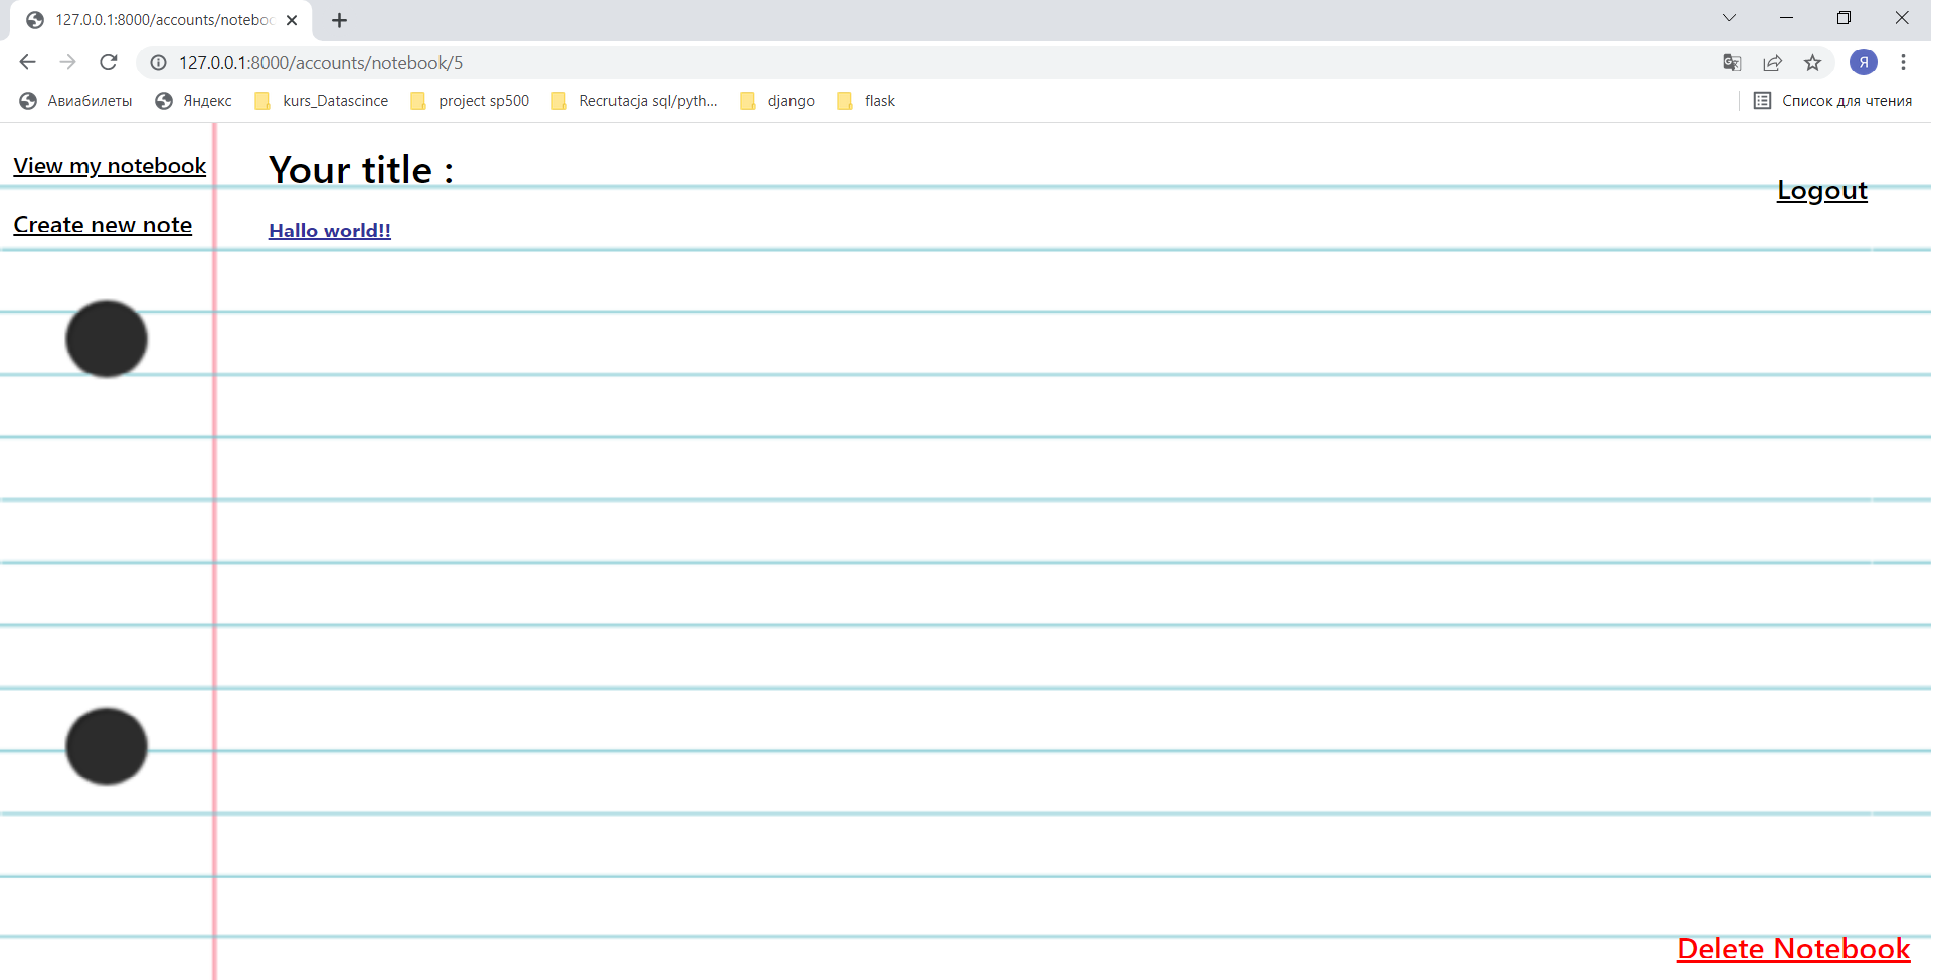
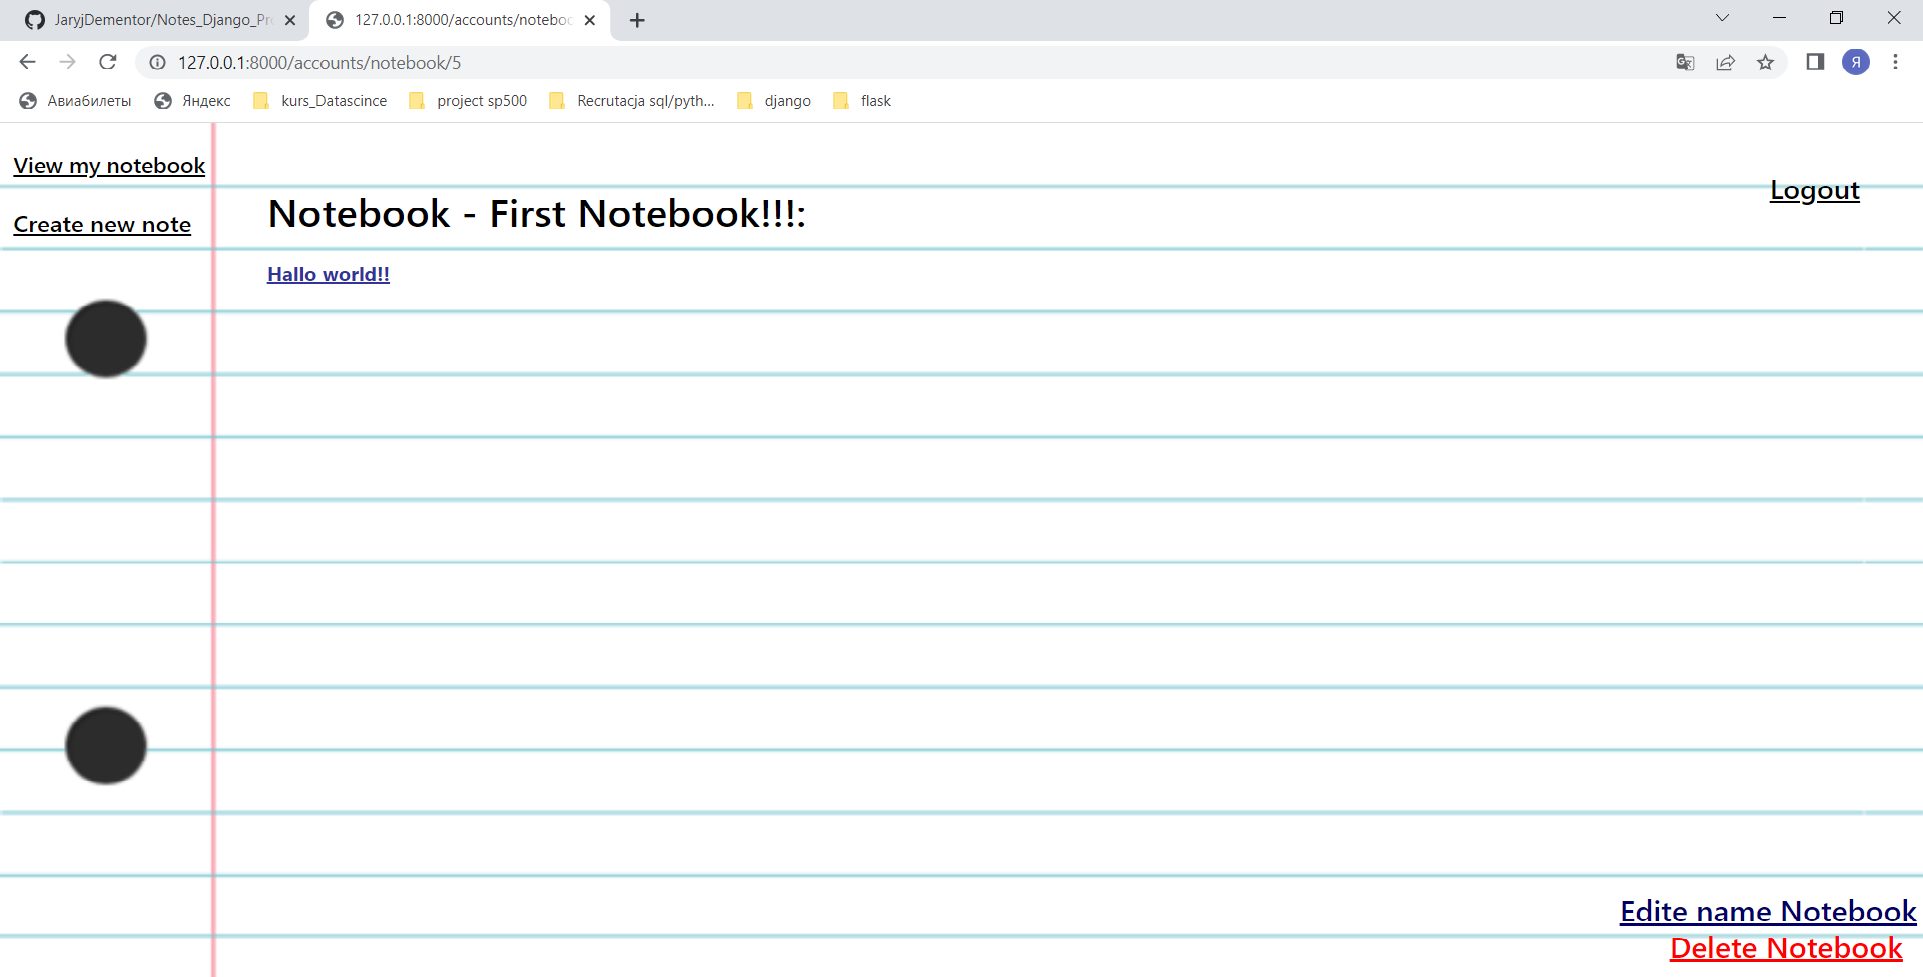
upd readme

diff --git a/README.md b/README.md
@@ -32,9 +32,11 @@
 * Create notebook
 * View all notebooks
 * View the selected notebook
+* Edit name notebook
 * Delete notebook
 * Create note 
 * View note
+* Edit note
 * Delete note
 
 ## On the first page, the user can proceed to registration or logging.
@@ -63,15 +65,26 @@
 ### If the user clicks on the one of the notebooks,the app will take them to the view title notebook.
 ![](img_For_README/notebook.png)
 
-### On this page you can view the title of your entries, go to the page for creating new note or delete notebook .
+### On this page you can view the title of your entries, go to the page for creating new note,edit name notebook or delete notebook.
+
+## If the user navigates to the page for edit name notebook, the application will go to the record update name notebook.
+![](img_For_README/update_notebook.png)
+### On this page you can change name notebook or come back to notebook.
+
 ## If the user navigates to the page for creating a new note, the application will go to the record creation page.
 ![](img_For_README/create_note.png)
 
 
-## If the user clicks on the title of their entry, the app will take them to the view note page
+## If the user clicks on the title of their entry, the app will take them to the view note page.
 ![](img_For_README/note.png)
 
-## On this page user can delete note. 
+## On this page user can edit note or delete note. 
+
+## If the user navigates to the page for edit note, the application will go to the record update note.
+![](img_For_README/update_note.png)
+
+### On this page you can change note or come back to view note page.
+
 ## If the user clicks on Logout, the software logs the user out and goes to the first page.
 
 ## Thank you for reading the Notes app :)
